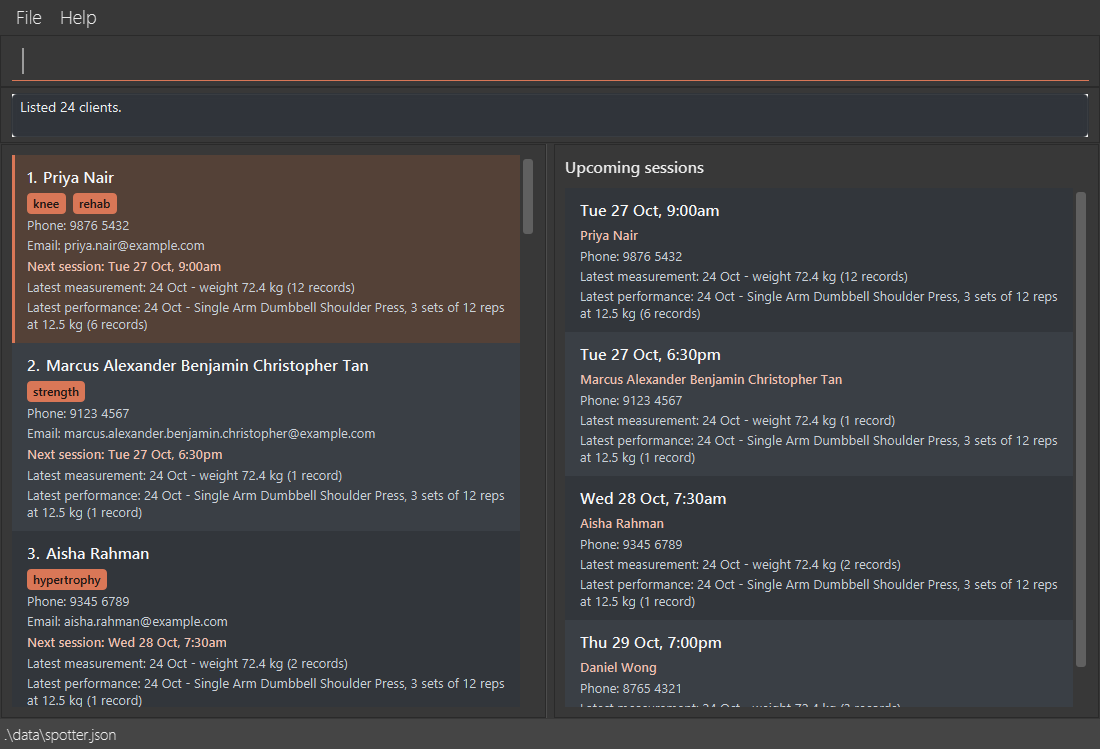
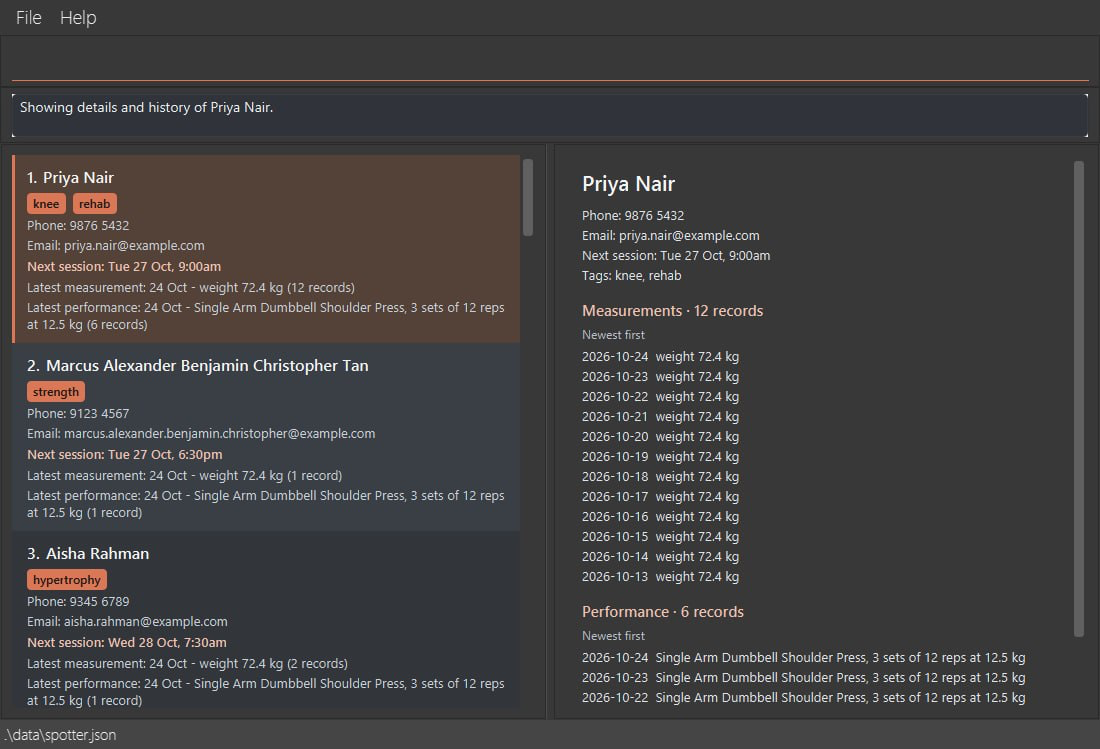
Update Ui.png with the current app (#185)
Screenshot taken by Gabriel Wan from the current app.

diff --git a/docs/UserGuide.md b/docs/UserGuide.md
@@ -23,10 +23,12 @@ Spotter is a **desktop application for freelance personal trainers to manage the
 1. Copy the file to the folder you want to use as the _home folder_ for Spotter.
 
 1. Open a terminal, `cd` to the folder containing the JAR file, and run `java -jar spotter.jar`.<br>
-   A GUI similar to the one below should appear in a few seconds. Note how the app contains some sample client data.<br>
+   A GUI similar to the one below should appear in a few seconds. On first launch, Spotter starts with some sample
+   clients so that you can try the commands.<br>
    ![Ui](images/Ui.png)
 
-   The screenshot includes example bookings and progress records.
+   The screenshot shows Spotter with a few clients, their next sessions, measurements and performance records,
+   and one client's history opened with `view`.
 
 1. Type a command in the command box and press Enter to execute it. For example, type **`help`** and press Enter to open the help window.<br>
    Some example commands you can try:
